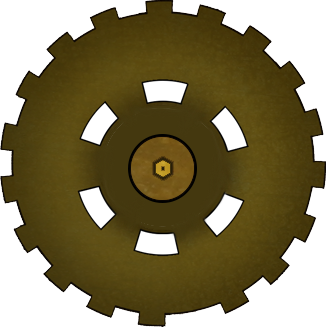
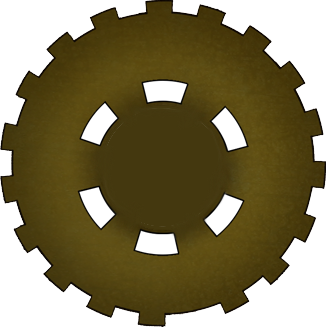
Menu con movimiento

Changed region(s): [[0.367, 0.3976, 0.6116, 0.6422]]

diff --git a/core/src/mx/itesm/fjzt/PantallaMenu.java b/core/src/mx/itesm/fjzt/PantallaMenu.java
@@ -19,6 +19,8 @@ import com.badlogic.gdx.utils.viewport.Viewport;
 
 import javax.xml.soap.Text;
 
+import static mx.itesm.fjzt.Pantalla.ANCHO;
+
 public class PantallaMenu implements Screen {
 
     private final JuegoDemo juego;
@@ -50,6 +52,9 @@ public class PantallaMenu implements Screen {
     private Sprite spriteEngranePequeño;
     private Texture textureEngranePequeño;
 
+    //Sprite de manecilla
+    private Sprite spriteManecilla;
+    private Texture textureManecilla;
 
 
     public PantallaMenu(JuegoDemo juego) {
@@ -59,14 +64,14 @@ public class PantallaMenu implements Screen {
     @Override
     public void show() {
         // ~ Constructor
-        camera = new OrthographicCamera(PantallaCargando.ANCHO, PantallaCargando.ALTO);
-        camera.position.set(PantallaCargando.ANCHO/2,PantallaCargando.ALTO/2,0);
+        camera = new OrthographicCamera(ANCHO, PantallaCargando.ALTO);
+        camera.position.set(ANCHO/2,PantallaCargando.ALTO/2,0);
         camera.update();
         // Vista
-        vista = new StretchViewport(PantallaCargando.ANCHO,PantallaCargando.ALTO,camera);
+        vista = new StretchViewport(ANCHO,PantallaCargando.ALTO,camera);
         batch = new SpriteBatch();
 
-        textFondo = new Texture("Menu.png");
+        textFondo = new Texture("PantallaMenuFondo.png");
 
         //ENGRANE GRANDE
         textEngraneGrande = new Texture("EngraneGrandeMenu.png");
@@ -80,6 +85,10 @@ public class PantallaMenu implements Screen {
         textureEngranePequeño = new Texture("EngraneChicoMenu.png");
         spriteEngranePequeño = new Sprite(textureEngranePequeño);
 
+        //MANECILLA
+        textureManecilla = new Texture("Manecilla.png");
+        spriteManecilla = new Sprite(textureManecilla);
+
         //Menú
         crearMenu();
         //Pasamos el control de INPUT a la escena
@@ -90,14 +99,14 @@ public class PantallaMenu implements Screen {
     private void crearMenu() {
         escenaMenu = new Stage(vista);
         //Botón PLAY
-        Texture textBtnPlay = new Texture("btnPlay.png");
+        Texture textBtnPlay = new Texture("button_play.png");
         TextureRegionDrawable trdBtnPlay = new TextureRegionDrawable(new TextureRegion(textBtnPlay));
 
-        Texture textBtnPlayP = new Texture("btnPlayP.png");
+        Texture textBtnPlayP = new Texture("button_play(2).png");
         TextureRegionDrawable trdBtnPlayP = new TextureRegionDrawable(new TextureRegion(textBtnPlayP));
 
         ImageButton btnPlay = new ImageButton(trdBtnPlay,trdBtnPlayP);
-        btnPlay.setPosition(PantallaCargando.ANCHO/2 - btnPlay.getWidth()/2, PantallaCargando.ALTO*2/3f - btnPlay.getHeight()/2);
+        btnPlay.setPosition(ANCHO/2 - btnPlay.getWidth()/2, PantallaCargando.ALTO*2/3f - btnPlay.getHeight()/2);
         escenaMenu.addActor(btnPlay);
         //Agregar el LISTENER
         btnPlay.addListener(new ClickListener(){
@@ -105,29 +114,29 @@ public class PantallaMenu implements Screen {
             public void clicked(InputEvent event, float x, float y) {
                 super.clicked(event, x, y);
                 //Responder al evento del boton
-                juego.setScreen(new PantallaSpaceInvaders(juego));
+                juego.setScreen(new PantallaCargando(juego));
             }
         });
 
         //Botón HELP
-        Texture textBtnHelp = new Texture("btnHelp.png");
+        Texture textBtnHelp = new Texture("Jugar1.jpg");
         TextureRegionDrawable trdBtnHelp = new TextureRegionDrawable(new TextureRegion(textBtnHelp));
 
-        Texture textBtnHelpP = new Texture("btnHelpP.png");
+        Texture textBtnHelpP = new Texture("Jugar2.png");
         TextureRegionDrawable trdBtnHelpP = new TextureRegionDrawable(new TextureRegion(textBtnHelpP));
 
         ImageButton btnHelp = new ImageButton(trdBtnHelp, trdBtnHelpP);
-        btnHelp.setPosition(PantallaCargando.ANCHO/2 - btnHelp.getWidth()/2, PantallaCargando.ALTO*1/3f - btnHelp.getHeight()/2);
+        btnHelp.setPosition(ANCHO/2 - btnHelp.getWidth()/2, PantallaCargando.ALTO*1/3f - btnHelp.getHeight()/2);
         // CARGAR LA PANTALLA DE MAPAS
         btnHelp.addListener(new ClickListener() {
             @Override
             public void clicked(InputEvent event, float x, float y) {
                 super.clicked(event, x, y);
-                juego.setScreen(new PantallaMapa(juego));
+                //Responder al evento del boton
+                juego.setScreen(new PantallaCargando(juego));
             }
         });
         escenaMenu.addActor(btnPlay);
-        escenaMenu.addActor(btnHelp);
     }
 
     @Override
@@ -139,9 +148,30 @@ public class PantallaMenu implements Screen {
 
         batch.begin();
         batch.draw(textFondo,0,0);
+
         //COORDENADAS ENGRANE GRANDE
+        spriteEngraneGrande.setX(62 - spriteEngraneGrande.getWidth()/2);
+        spriteEngraneGrande.setY(455 - spriteEngraneGrande.getHeight()/2);
+        spriteEngraneGrande.rotate(-0.3f);
+        spriteEngraneGrande.draw(batch);
+
         //COORDENADAS ENGRANE MEDIANO
+        spriteEngraneMediano.setX(62 - spriteEngraneMediano.getWidth()/2);
+        spriteEngraneMediano.setY(455 - spriteEngraneMediano.getHeight()/2);
+        spriteEngraneMediano.rotate(0.35f);
+        spriteEngraneMediano.draw(batch);
+
         //COORDENADAS ENGRANE PEQUEÑO
+        spriteEngranePequeño.setX(62 - spriteEngranePequeño.getWidth()/2);
+        spriteEngranePequeño.setY(455 - spriteEngranePequeño.getHeight()/2);
+        spriteEngranePequeño.rotate(-0.37f);
+        spriteEngranePequeño.draw(batch);
+
+        //MANECILLA
+        spriteManecilla.setX(61.5f -spriteManecilla.getWidth()/2);
+        spriteManecilla.setY(456 - spriteManecilla.getHeight()/2);
+        spriteManecilla.rotate(0.4f);
+        spriteManecilla.draw(batch);
         batch.end();
 
         escenaMenu.draw();
@@ -171,16 +201,10 @@ public class PantallaMenu implements Screen {
     public void dispose() {
         textSmash.dispose();
         textFondo.dispose();
+        textEngraneGrande.dispose();
+        textureEngraneMediano.dispose();
+        textureEngranePequeño.dispose();
         batch.dispose();
-    }
-
-    public class Procesador extends InputAdapter {
-
-        @Override                   //Donde hemos tocado   // Que hemos tocado  //
-        public boolean touchDown(int screenX, int screenY, int pointer, int button){
-            System.out.println("Tocado en posicion " + screenX + ", " + screenY );
-            return true;
-        }
     }
 }
 

diff --git a/ios/src/mx/itesm/fjzt/IOSLauncher.java b/ios/src/mx/itesm/fjzt/IOSLauncher.java
@@ -5,7 +5,6 @@ import org.robovm.apple.uikit.UIApplication;
 
 import com.badlogic.gdx.backends.iosrobovm.IOSApplication;
 import com.badlogic.gdx.backends.iosrobovm.IOSApplicationConfiguration;
-import mx.itesm.fjzt.JuegoDemo;
 
 public class IOSLauncher extends IOSApplication.Delegate {
     @Override

diff --git a/desktop/src/mx/itesm/fjzt/desktop/DesktopLauncher.java b/desktop/src/mx/itesm/fjzt/desktop/DesktopLauncher.java
@@ -2,6 +2,7 @@ package mx.itesm.fjzt.desktop;
 
 import com.badlogic.gdx.backends.lwjgl.LwjglApplication;
 import com.badlogic.gdx.backends.lwjgl.LwjglApplicationConfiguration;
+
 import mx.itesm.fjzt.JuegoDemo;
 
 public class DesktopLauncher {

diff --git a/core/src/mx/itesm/fjzt/JuegoDemo.java b/core/src/mx/itesm/fjzt/JuegoDemo.java
@@ -7,6 +7,8 @@ import com.badlogic.gdx.graphics.GL20;
 import com.badlogic.gdx.graphics.Texture;
 import com.badlogic.gdx.graphics.g2d.SpriteBatch;
 
+import mx.itesm.fjzt.PantallaCargando;
+
 public class JuegoDemo extends Game {
 
 	@Override

diff --git a/core/src/mx/itesm/fjzt/Level.java b/core/src/mx/itesm/fjzt/Level.java
@@ -159,7 +159,6 @@ public class Level extends Pantalla {
 
     private void acualizarCamara() {
         float xCamara = mario.getX();
-
         camara.position.x = xCamara;
         camara.update(); //Cambio
     }
